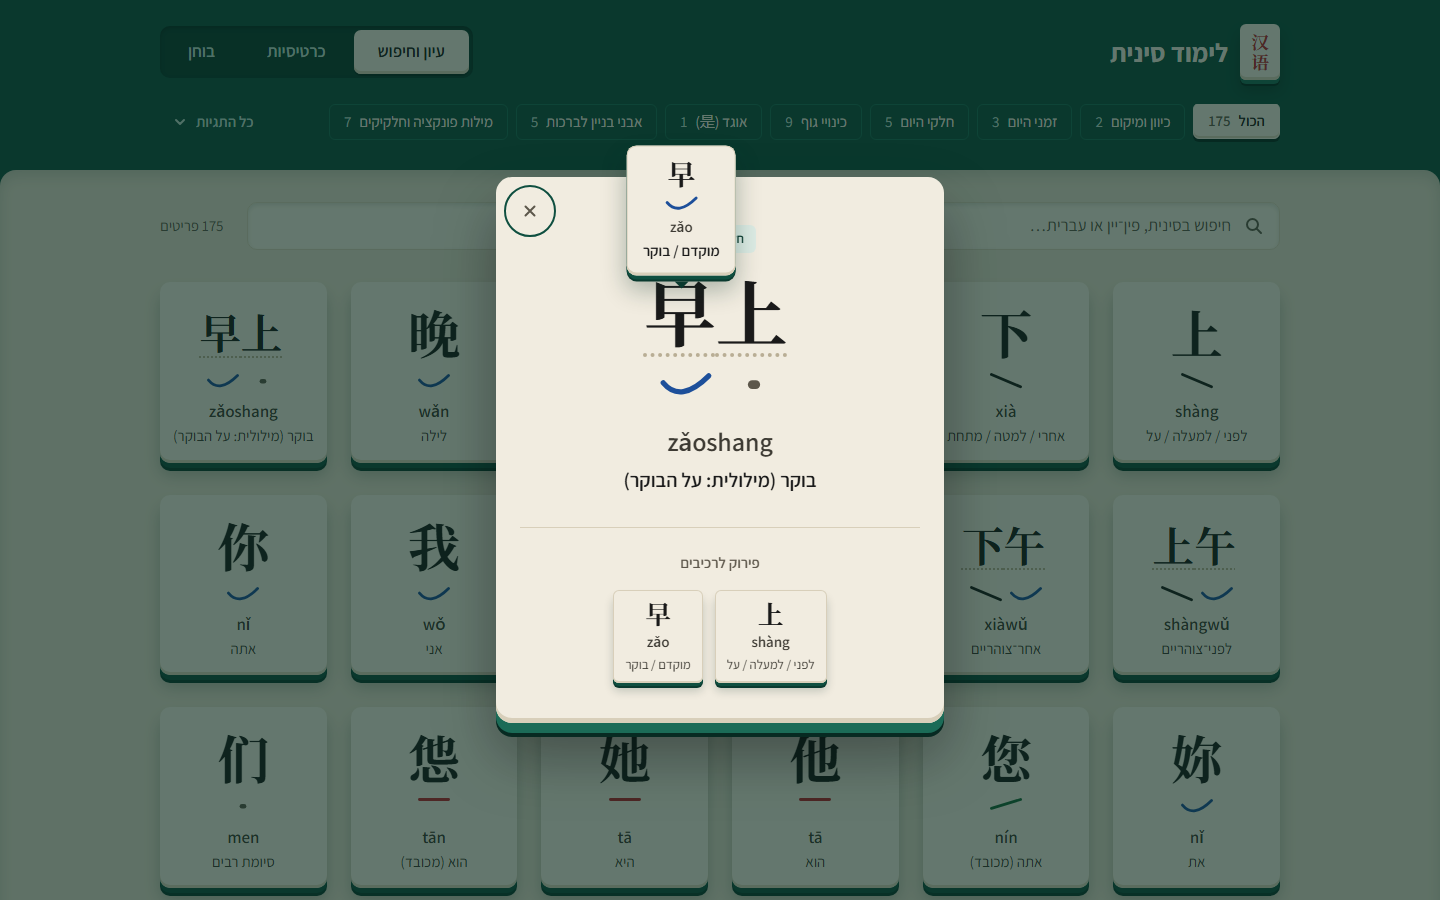
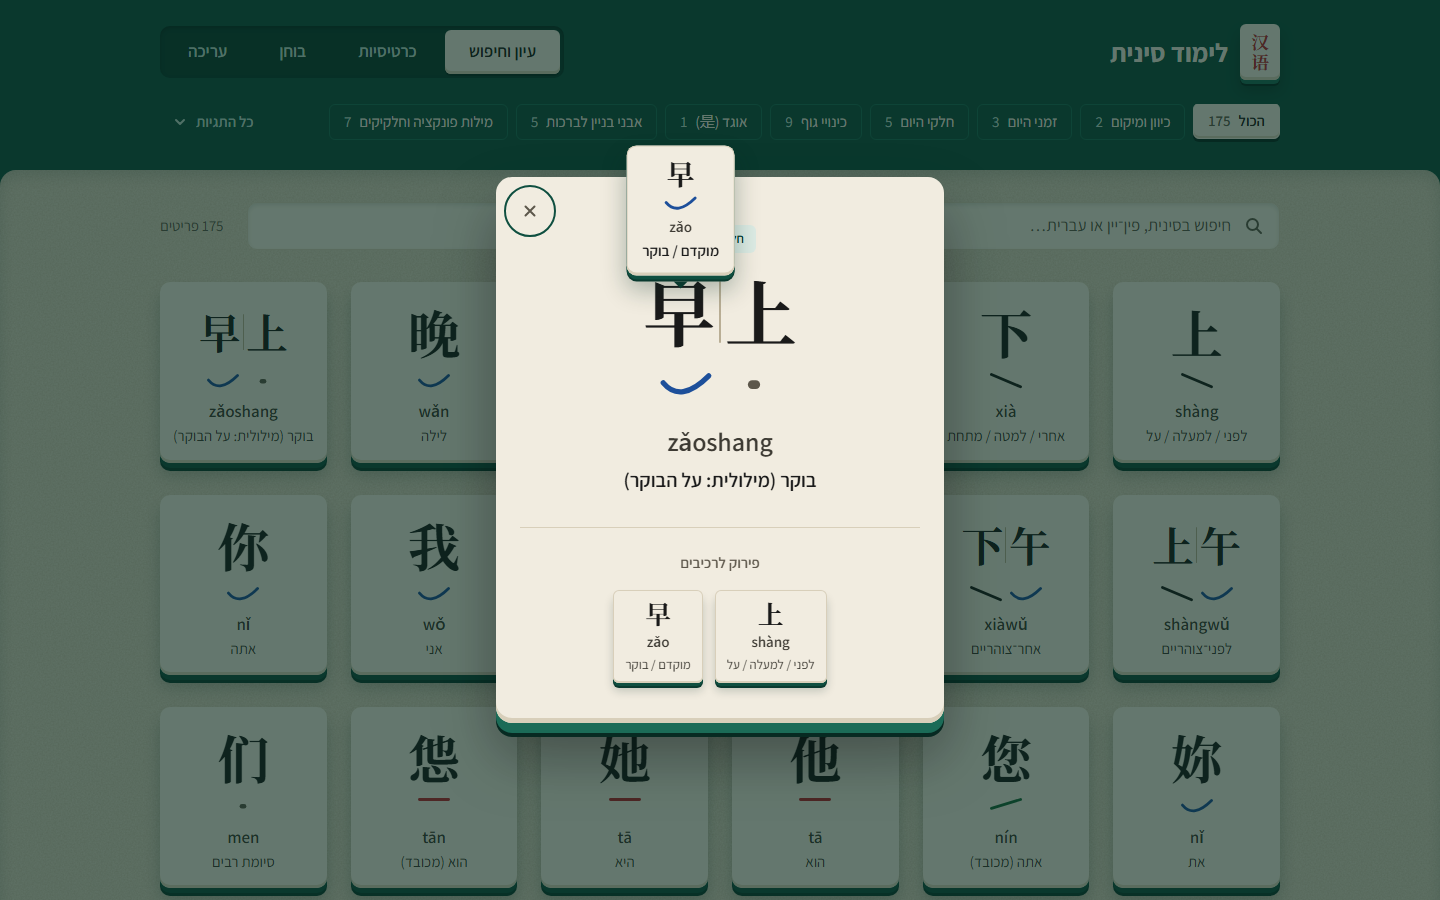
`HanziText` carved seam between sub-words instead of dotted underline

diff --git a/src/components/HanziText.vue b/src/components/HanziText.vue
@@ -55,29 +55,45 @@ function onActivate(word: Word) {
   white-space: nowrap;
 }
 
-/* Known sub-words carry a fine dotted rule; it turns jade under the pointer
-   (never a carving ink — those are reserved for tones). */
+/*
+ * Known sub-words are joined like the halves of a tile: a fine carved seam
+ * between adjacent parts (e.g. 一家 | 老小), no underline. Under the pointer a
+ * part lifts into a soft jade wash (never a carving ink — those mean tones).
+ *
+ * Han characters always run left-to-right, even inside the RTL page, so the
+ * seam uses physical `left` / `margin-left`: logical inline-start would land
+ * on the wrong side here.
+ */
 .seg.known {
+  position: relative;
   cursor: pointer;
-  text-decoration: underline dotted var(--bone-deep);
-  text-decoration-thickness: 0.06em;
-  text-underline-offset: 0.18em;
+  border-radius: 0.12em;
   outline-offset: 2px;
   transition:
     color var(--dur-base) var(--ease-out),
-    text-decoration-color var(--dur-base) var(--ease-out);
+    background-color var(--dur-base) var(--ease-out);
 }
 
 .seg.known:hover,
 .seg.known:focus-visible {
   color: var(--jade-800);
-  text-decoration-color: var(--jade-800);
+  background-color: var(--jade-100);
 }
 
-/* Small gap between adjacent known segments so the dotted underlines read as
-   separate units (e.g. 一家 · 老小). */
 .seg.known + .seg.known {
-  margin-inline-start: 0.12em;
+  margin-left: 0.14em;
+}
+
+.seg.known + .seg.known::before {
+  content: '';
+  position: absolute;
+  left: -0.085em;
+  top: 22%;
+  bottom: 18%;
+  width: max(1px, 0.025em);
+  border-radius: 1px;
+  background: var(--bone-deep);
+  pointer-events: none;
 }
 </style>
 

diff --git a/DESIGN.md b/DESIGN.md
@@ -192,7 +192,7 @@ A jade, bone and felt material palette, with four small carving inks that mean t
 - **Table Jade** (jade-800): the shell background, tile undersides (first layer), primary buttons, focus outlines, selection, caret, link and score accents. Its family carries the world: **Jade Well** (jade-900) for sunken wells and the deeper underside layer, **Deepest Jade** (jade-950) for the darkest underside edge and as the base of every overlay and shadow tint (`rgba(7, 42, 34, …)`), **Rim Jade** (jade-700) for hover fills and chip outlines on the shell, **Pale Jade** (jade-200) for muted text on jade and the focus halo on inputs, **Jade Wash** (jade-100) for word-tag fills inside the dialog.
 
 ### Secondary
-- **Carved Bone** (bone): every tile face, the active tab, the selected chip, input wells, the dialog and tooltip. Also the text colour on jade. **Bone Edge** (bone-shade) is the inset bottom lip of a face and its hairline dividers; **Old Bone** (bone-deep) is the second underside layer under jade buttons, the dotted sub-word rule and input hover borders.
+- **Carved Bone** (bone): every tile face, the active tab, the selected chip, input wells, the dialog and tooltip. Also the text colour on jade. **Bone Edge** (bone-shade) is the inset bottom lip of a face and its hairline dividers; **Old Bone** (bone-deep) is the second underside layer under jade buttons, the carved seam between a word's sub-word parts (e.g. 早|上; no underline, a Jade Wash fill on hover) and input hover borders.
 
 ### Tertiary
 - **Carving Red** (carve-red): tone 1, high flat.
